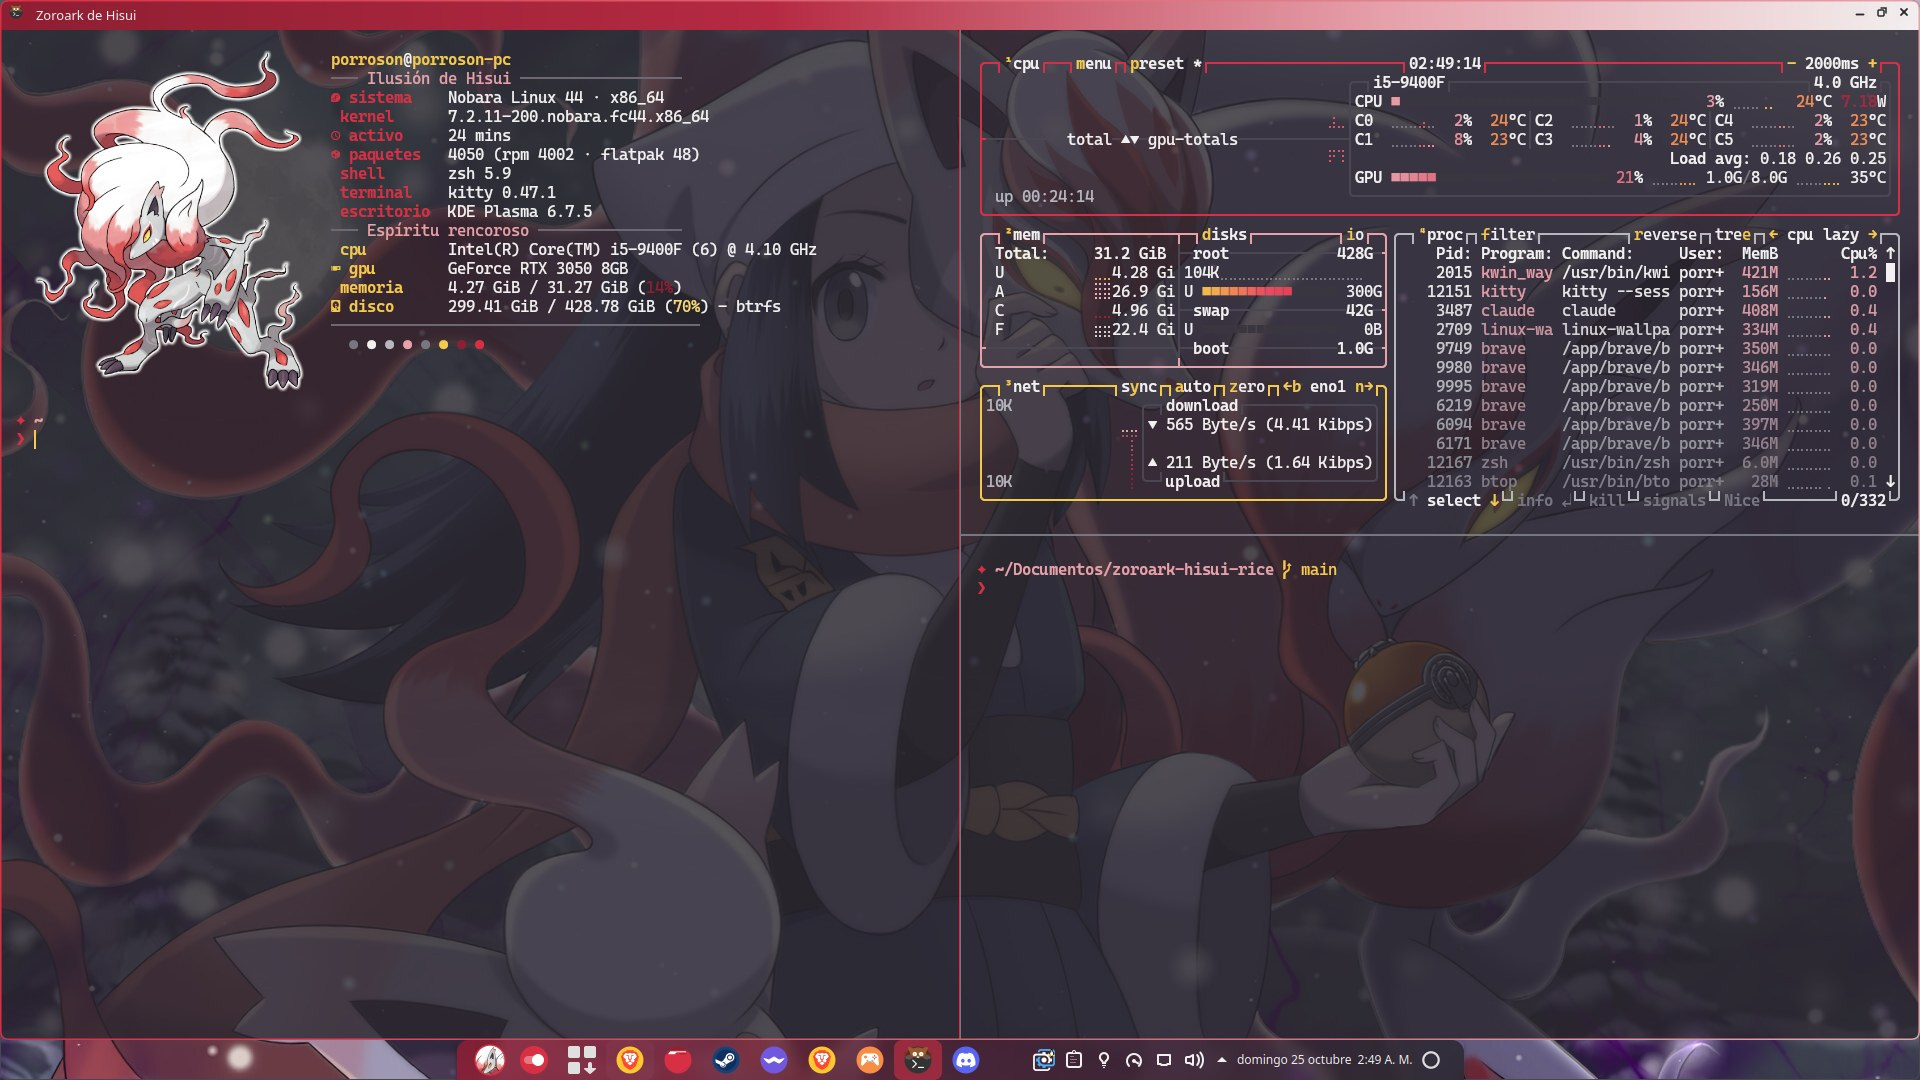
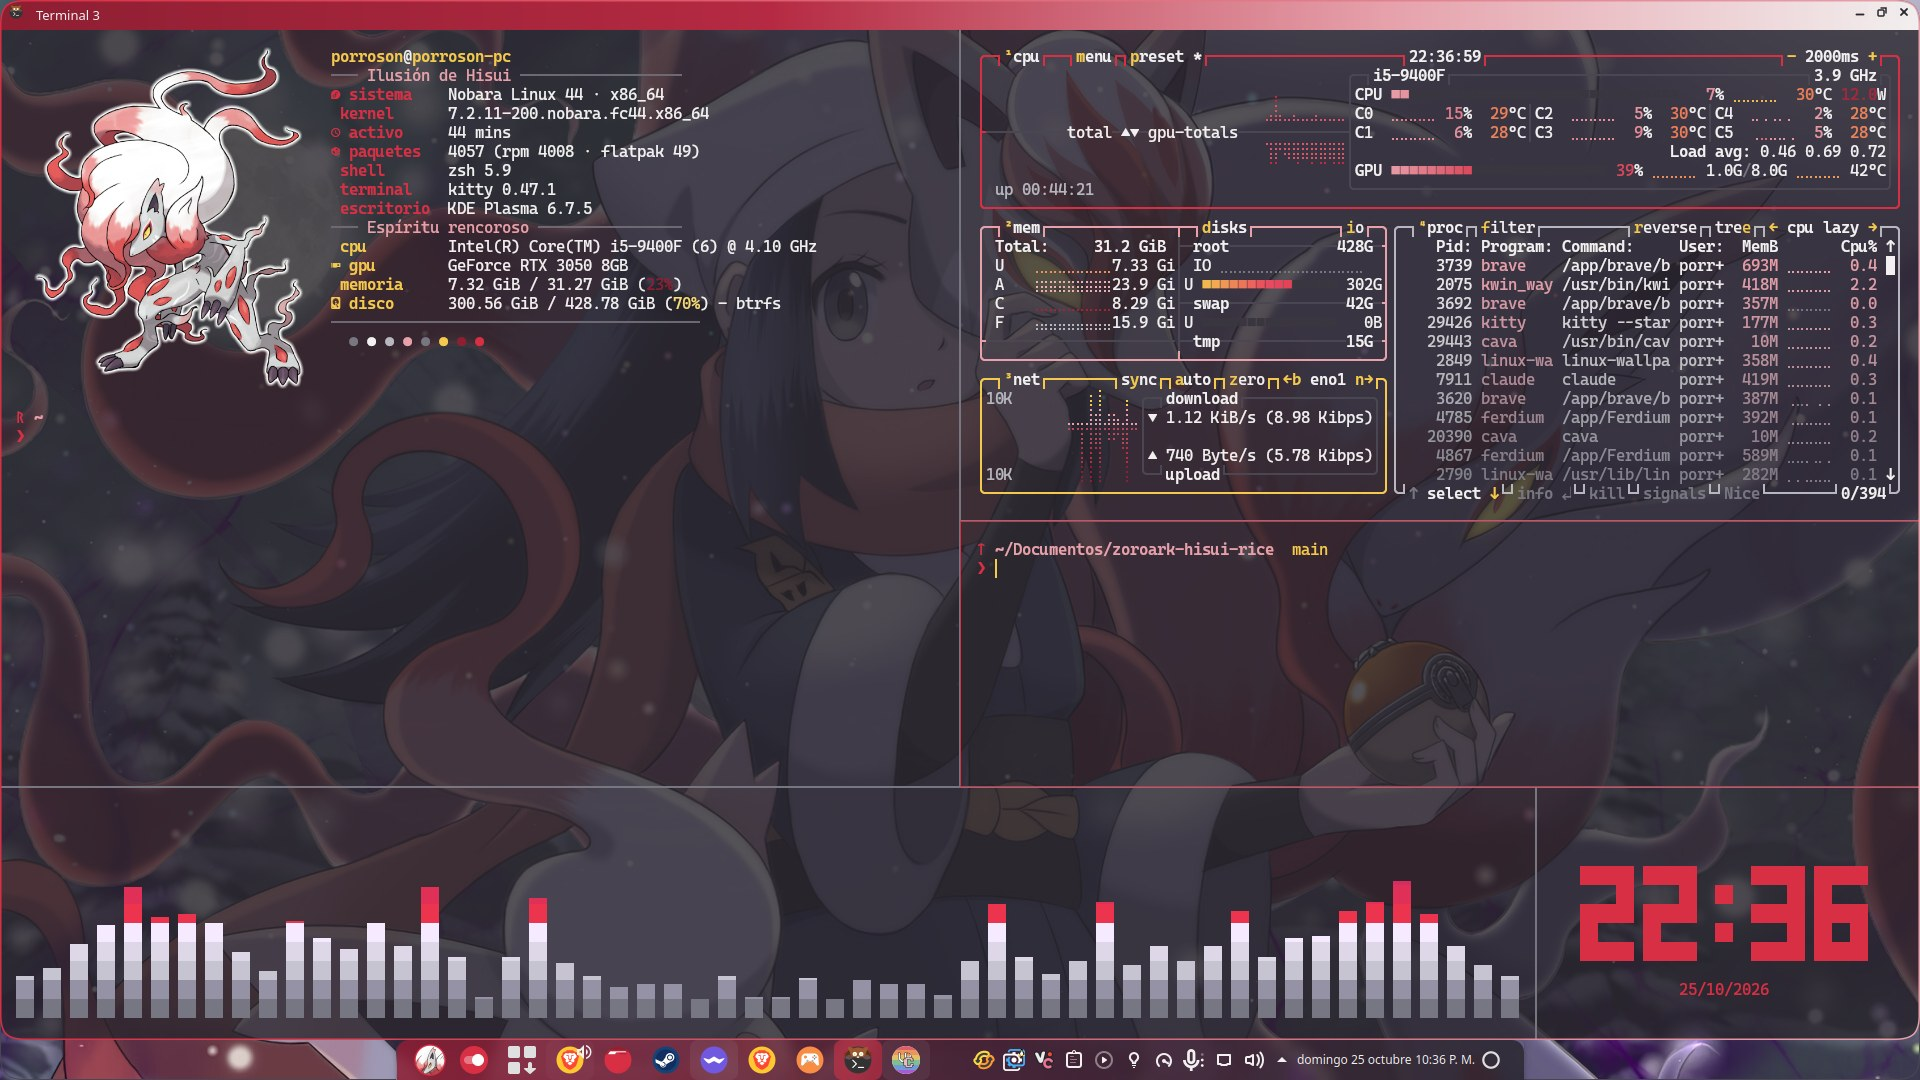
README: captura de la sesión de kitty con cava y tty-clock

diff --git a/README.md b/README.md
@@ -1,6 +1,6 @@
 # Zoroark de Hisui — tema para KDE Plasma 6
 
-![Sesión de kitty con fastfetch, btop y el prompt de zsh](docs/capturas/terminal.jpg)
+![Sesión de kitty con fastfetch, btop, el prompt de zsh, cava y el reloj tty-clock](docs/capturas/terminal.jpg)
 
 | | |
 |---|---|
